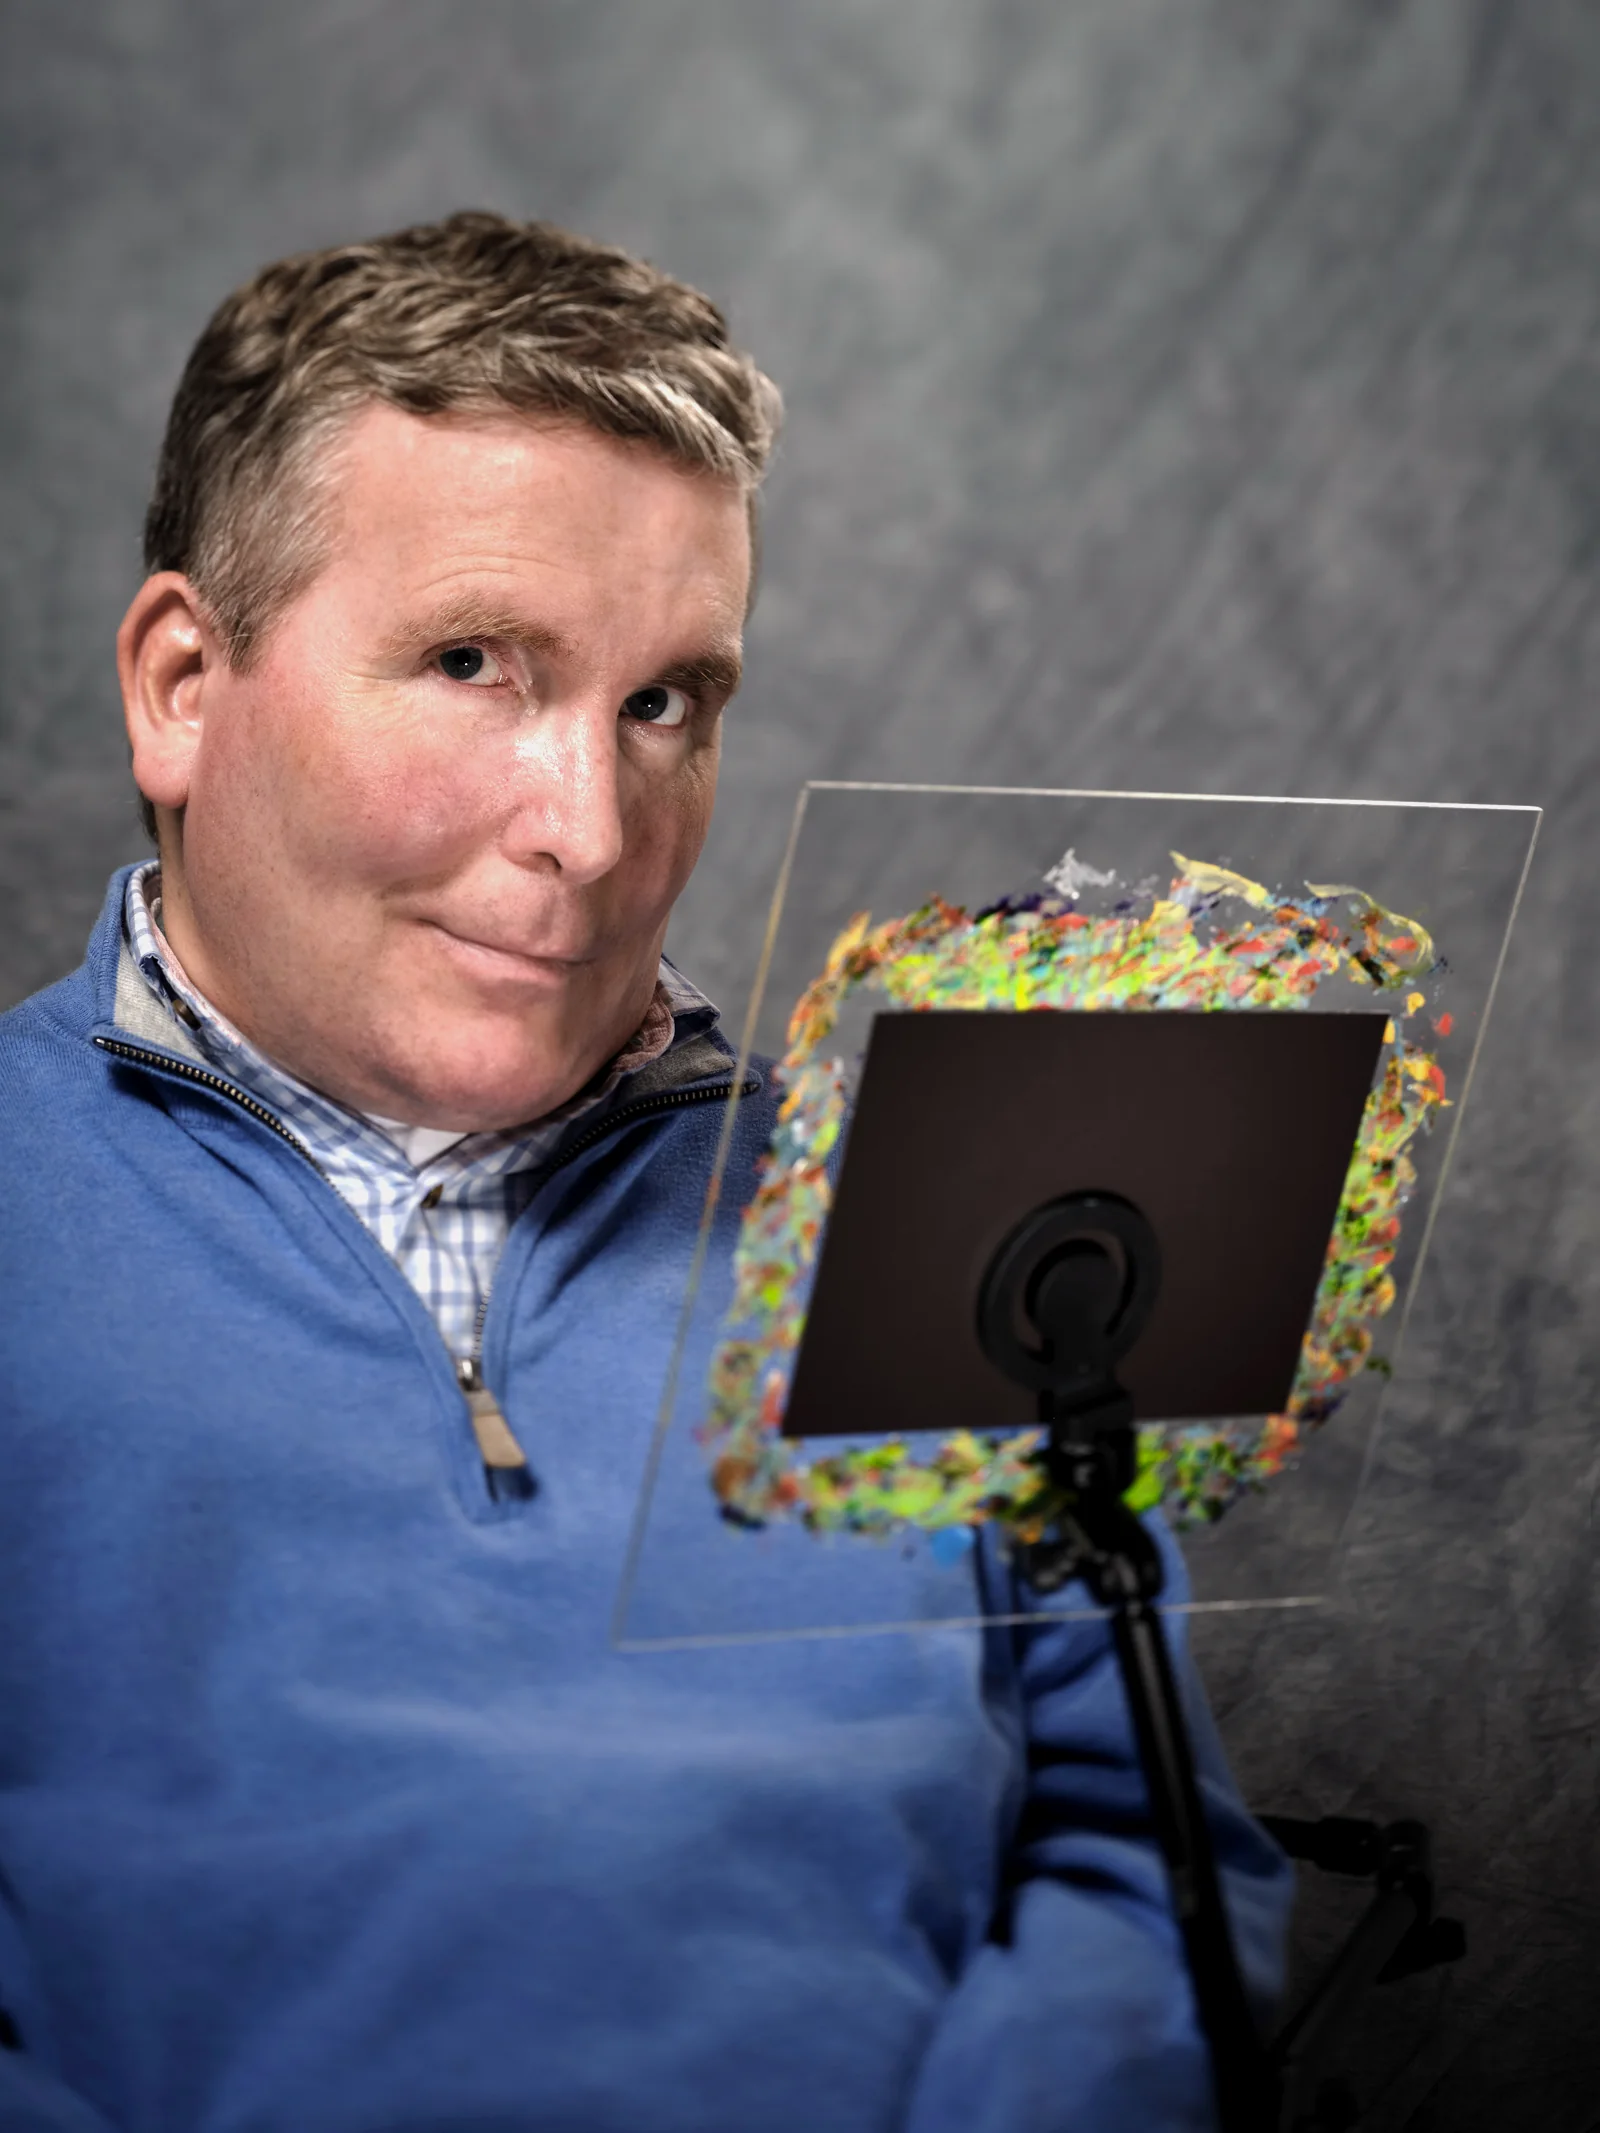
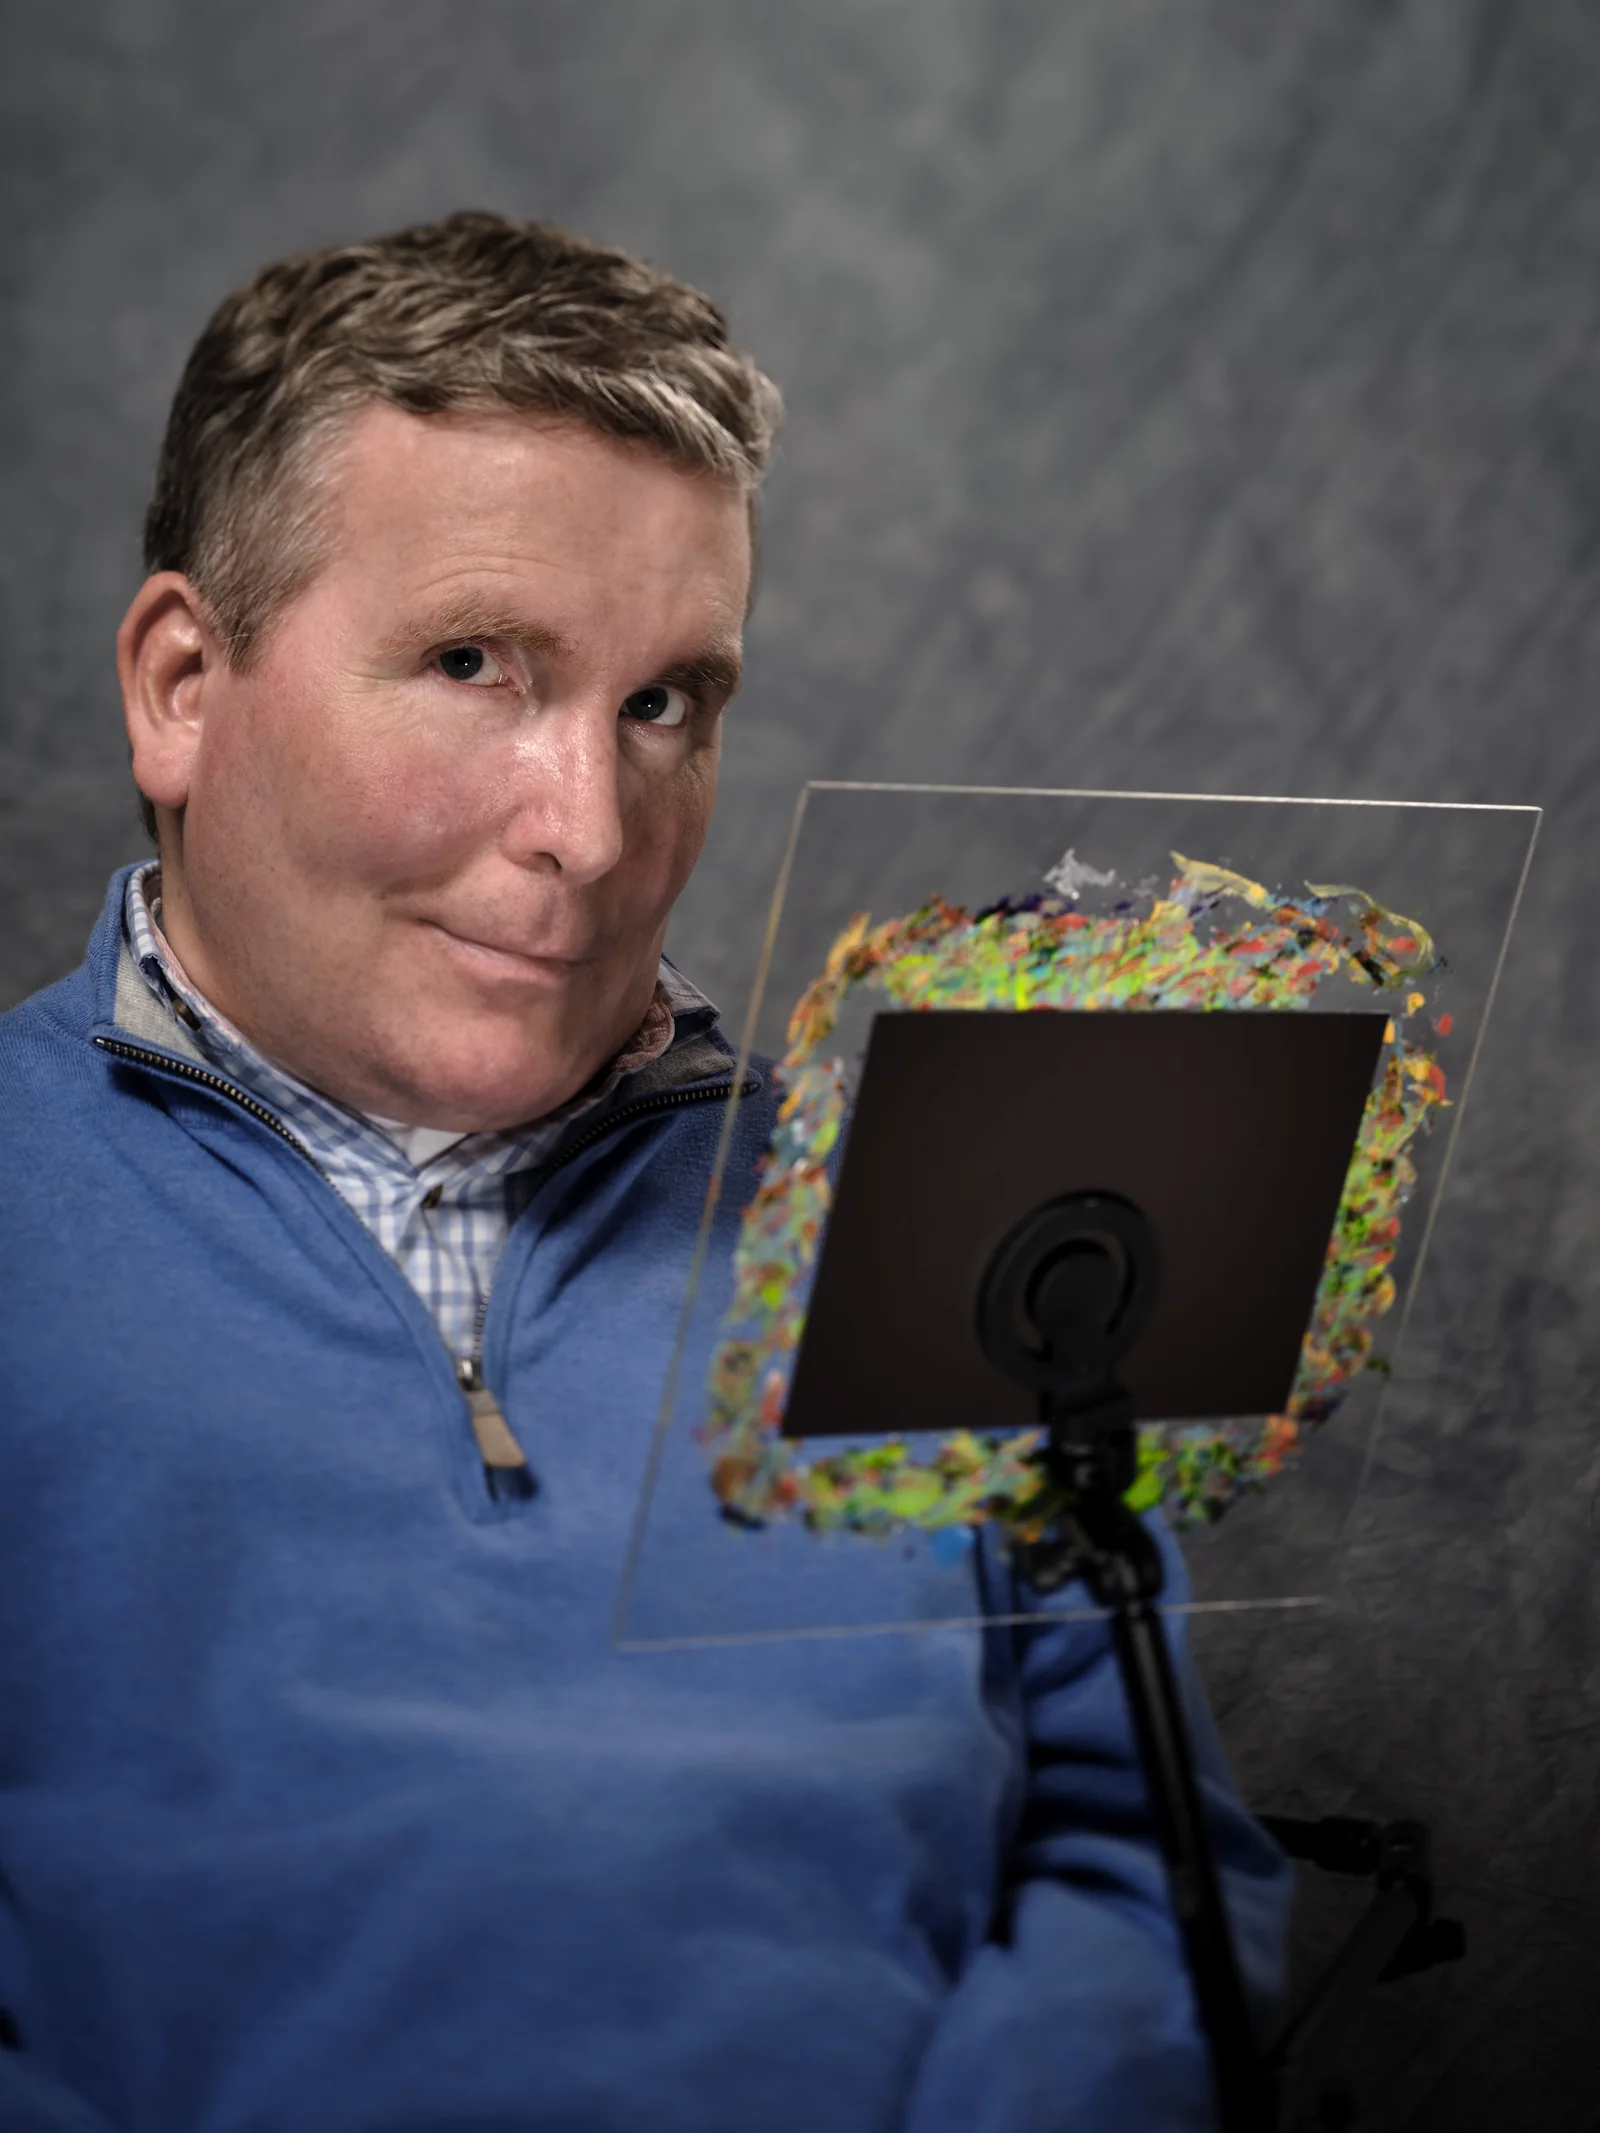
About: gentler correction on Ned's portrait; photo aligned to the B of ARBOR, copy 40px left

diff --git a/About.dc.html b/About.dc.html
@@ -104,7 +104,7 @@ html { scrollbar-gutter: stable; }
 <main style="max-width: 1920px; width: 100%; box-sizing: border-box; margin: 0 auto; padding: {{ mainPad }}; flex: 1">
   <section data-screen-label="About — Biography" style="margin: 0 calc(50% - 50vw); padding: {{ sectionPadFirst }}; min-height: {{ bioMinH }}; display: grid; grid-template-columns: {{ bioCols }}; grid-template-rows: {{ bioRows }}; gap: {{ bioGap }}; align-items: {{ bioAlign }}; align-content: {{ bioAlign }}">
     <div style="display: {{ bioSideDisplay }}; grid-column: {{ col1 }}"></div>
-    <div style="grid-column: {{ col2 }}; grid-row: {{ row1 }}; display: grid; gap: 16px; align-self: start; padding-top: {{ bioTop }}; width: {{ bioPhotoW }}; justify-self: {{ bioPhotoJustify }}">
+    <div style="grid-column: {{ col2 }}; grid-row: {{ row1 }}; display: grid; gap: 16px; align-self: start; padding-top: {{ bioTop }}; width: {{ bioPhotoW }}; justify-self: {{ bioPhotoJustify }}; margin-left: {{ bioPhotoNudge }}">
       <div onClick="{{ bioTap }}" onTouchStart="{{ bioTouchStart }}" onTouchEnd="{{ bioTouchEnd }}" style="display: grid; overflow: hidden; touch-action: pan-y; cursor: pointer">
         <div style="grid-area: 1 / 1; opacity: {{ bioD0 }}; transition: opacity 0.7s ease; aspect-ratio: 3 / 4"><img src="uploads/about/ned-portrait.webp" alt="Ned Church beside his plexiglass painting easel" style="width: 100%; height: 100%; object-fit: cover; object-position: center top; display: block"></div>
         <div style="grid-area: 1 / 1; opacity: {{ bioD1 }}; transition: opacity 0.7s ease; aspect-ratio: 3 / 4"><img src="uploads/about/ned-window.webp" alt="Ned Church painting with a mouth-held brush at his window" style="width: 100%; height: 100%; object-fit: cover; object-position: center top; display: block"></div>
@@ -119,7 +119,7 @@ html { scrollbar-gutter: stable; }
         <button onClick="{{ bioNext }}" aria-label="Next photo" style="border: none; background: transparent; cursor: pointer; color: #ADA9A2; display: flex; padding: 6px" style-hover="color: #6E6B66"><svg width="13" height="36" viewBox="0 0 22 60" fill="none" stroke="currentColor" stroke-width="1.5"><polyline points="1 1 21 30.66 1 59"></polyline></svg></button>
       </div>
     </div>
-    <div style="position: relative; grid-column: {{ col4 }}; grid-row: {{ bioSpan }}; max-width: {{ bioTextMax }}; width: 100%; box-sizing: border-box; margin: 0 0 0 auto; padding: {{ bioTextPad }}">
+    <div style="position: relative; left: {{ bioTextShift }}; grid-column: {{ col4 }}; grid-row: {{ bioSpan }}; max-width: {{ bioTextMax }}; width: 100%; box-sizing: border-box; margin: 0 0 0 auto; padding: {{ bioTextPad }}">
       <h1 style="margin: 0 0 20px; font-family: 'EB Garamond', serif; font-weight: 400; font-size: {{ headingSize }}; letter-spacing: 0.14em; text-transform: uppercase; text-align: center">Biography</h1>
       <div class="copy" style="display: grid; font-size: 14px; line-height: 1.75; text-align: left">
         <p style="margin: 0">I am a Vermont-born watercolor painter whose practice began in the wake of a childhood accident that left me with a spinal cord injury. Painting with a brush held in my mouth became both an outlet and a way of rediscovering what was possible. My father, Gilbert “Geebo” Church, an artist himself, recognized in watercolor the possibility of a new form of expression and independence — a practice still physical, yet largely my own — and offered the guidance and encouragement that helped bring it forward.</p>
@@ -325,10 +325,12 @@ class Component extends DCLogic {
       // the portraits (3:4): desktop, the photo's top level with the copy's first line, as wide as the photo column allows but
       // never so tall that the photo with its arrows and dots runs under the pinned tab row (56px section padding and 48px
       // above it; 64px of arrows and dots and 51px down to the tab row below); stacked, centred and at most 600px wide
-      bioPhotoW: stack ? 'min(100%, 600px)' : 'min(100%, calc((100vh - var(--header-h) - 56px - 48px - 64px - 51px) * 0.75))',
+      bioPhotoW: stack ? 'min(100%, 600px)' : 'min(calc(100% - 44.6px), calc((100vh - var(--header-h) - 56px - 48px - 64px - 51px) * 0.75))',
+      bioPhotoNudge: stack ? '0' : '44.6px',   // desktop: the photo's left edge lines up with the B of ARBOR in the logo (44.6px in from the logo's left edge)
       bioPhotoJustify: stack ? 'center' : 'start',
       bioSideDisplay: stack ? 'none' : 'block',
       bioGap: stack ? '28px' : '0',
+      bioTextShift: stack ? '0' : '-40px',   // desktop: the copy sits 40px left of its column, keeping its width
       bioTextMax: 'none', // the copy fills its column, from the gutter to the bag icon's line
       _oldTextMax: stack ? 'none' : 'calc(480px + var(--side-pad))', // desktop: a 480px measure (about 66 characters a line) ending on the bag icon's line; the extra is the block's right padding
       bioTextPad: stack ? '0 var(--side-pad)' : '48px var(--side-pad) 24px 0',

diff --git a/SITE-STATE.md b/SITE-STATE.md
@@ -128,7 +128,7 @@ The three templated gallery files (clean, boxed, horizontal) share the same data
 
 - Paragraphs in Biography, Tree of Life and Process are left-aligned within their existing blocks (block widths, positions and side padding unchanged); the section headings and the quote stay centred.
 - Paragraph text 14.5px / 1.75 line height (25.4px) on desktop, scaling down with the viewport to no less than 12px (phones 15px); 18px between paragraphs; headings share one line height.
-- **Biography (page opener)**: a carousel of two tall (3:4) portraits of Ned (2026-10-12; from the full-size originals in `Finalized Photography/PORTRAITS`: `Poised & a smile. NC_9253.jpg` as `uploads/about/ned-portrait.webp`, light- and colour-corrected for the site (lifted from its dark exposure, the grey backdrop neutralised and the red in the skin eased; the original file is untouched) and `NC_9477.jpg` as `uploads/about/ned-window.webp`, 1600px wide so they stay sharp on Ned's 4K screen; the earlier square crops and the brush-roll photo left the opener). From 1000px up the photo starts at the logo's left edge with its top level with the Biography heading; it is as wide as its column allows (89.8% of the width from the side padding to the middle of the screen) but never so tall that the photo with its arrows and dots runs under the pinned tab row (about 455 x 607px on a 1440 x 900 screen, 586 x 781 at 1920 x 1080). Next comes a clear 190px gutter (the Tree of Life that sat in it was removed on 2026-10-12), then the copy, from the gutter to the bag icon's line, heading centred over it; when the copy is shorter than the photo it is centred against it. The opener fills the screen down to the pinned tab row, so the tabs keep exactly the same place on load; where the copy is taller than the space its last lines pass under the pinned tabs until the page scrolls. The carousel's arrows and dots sit centred under the photo. Under 1000px it stacks: the photo centred and at most 600px wide under the header, controls, then heading and copy with the normal side padding, then the quote.
+- **Biography (page opener)**: a carousel of two tall (3:4) portraits of Ned (2026-10-12; from the full-size originals in `Finalized Photography/PORTRAITS`: `Poised & a smile. NC_9253.jpg` as `uploads/about/ned-portrait.webp`, light- and colour-corrected for the site (lifted gently from its dark exposure, about halfway to a full correction, the grey backdrop neutralised and the red in the skin eased; the original file is untouched) and `NC_9477.jpg` as `uploads/about/ned-window.webp`, 1600px wide so they stay sharp on Ned's 4K screen; the earlier square crops and the brush-roll photo left the opener). From 1000px up the photo's left edge lines up with the B of ARBOR in the logo (44.6px in from the logo's left edge) and its top is level with the Biography heading; it is as wide as its column allows (89.8% of the width from the side padding to the middle of the screen) but never so tall that the photo with its arrows and dots runs under the pinned tab row (about 455 x 607px on a 1440 x 900 screen, 586 x 781 at 1920 x 1080). Next comes a clear 190px gutter (the Tree of Life that sat in it was removed on 2026-10-12), then the copy, heading centred over it; it keeps the width of its column (from the gutter to the bag icon's line) but sits 40px further left; when the copy is shorter than the photo it is centred against it. The opener fills the screen down to the pinned tab row, so the tabs keep exactly the same place on load; where the copy is taller than the space its last lines pass under the pinned tabs until the page scrolls. The carousel's arrows and dots sit centred under the photo. Under 1000px it stacks: the photo centred and at most 600px wide under the header, controls, then heading and copy with the normal side padding, then the quote.
 - **Quote**: hidden on desktop for now. On narrower screens it follows the copy (20px EB Garamond capitals, with quotation marks that scale with the screen, about 33px on phones).
 - **Section tabs**: after the opener, a hairline rule across the content width with a left-aligned row of three tabs starting at the logo's line, Tree of Life (default) · Process · Studio, laid out like the Contact page's tabs (12px tracked capitals, the active one bold with a hairline underline). On desktop the row is pinned to the foot of the screen (on the page colour, 22px above the tabs and 20px below) until the page scrolls down to it, so it is in view on load; choosing a tab scrolls the tabs and that section up into view. On phones the row stays centred with no rule and is not pinned. Only the chosen section shows below.
 - **Tree of Life tab**: content starts 37px below the tabs on desktop (35px higher than the other tabs); fresco photo left in the larger column (1.45 : 1 against the copy), heading and copy right. **Process tab**: heading and copy left, vertically centred on the photo itself (the arrows-and-dots row below the photo is left out of the centring), photo carousel right. **Studio tab**: content starts 32px below the tabs on desktop (40px higher); the photo carousel first, then (TRIAL, for comparison) "Version B": the same three studio photos side by side in three equal 3:4 columns 25px apart across the content width (stacked on phones), under a small grey "Version B · side by side" label and a dashed rule; then the studio film. Keep one version and delete the other.
